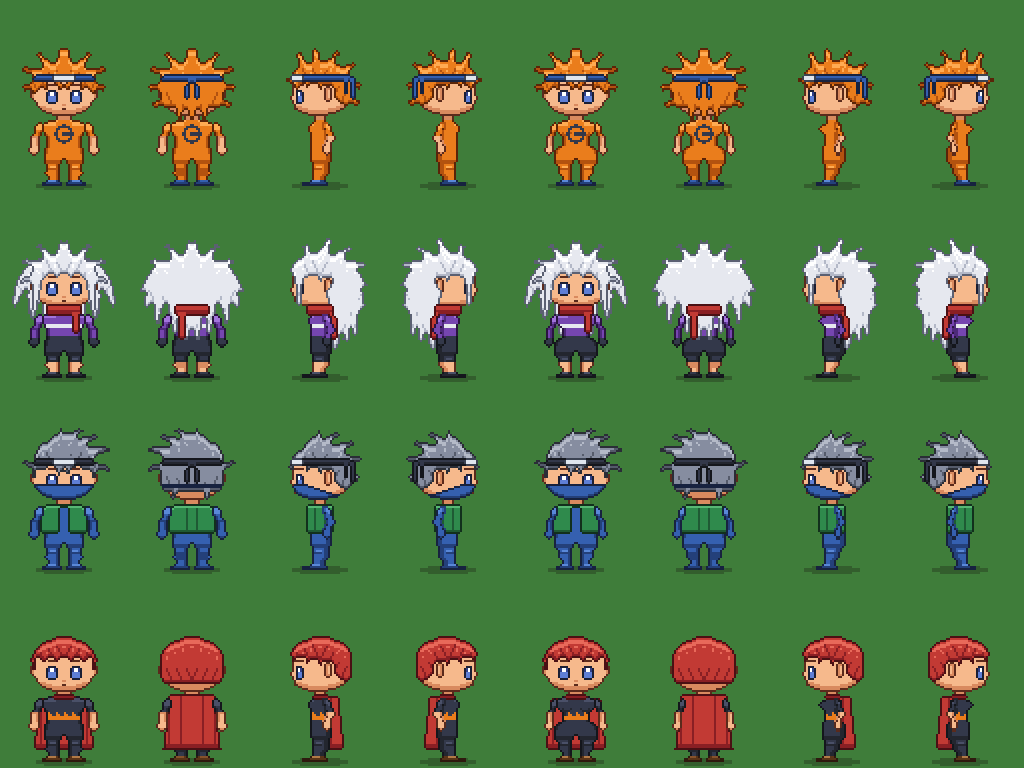
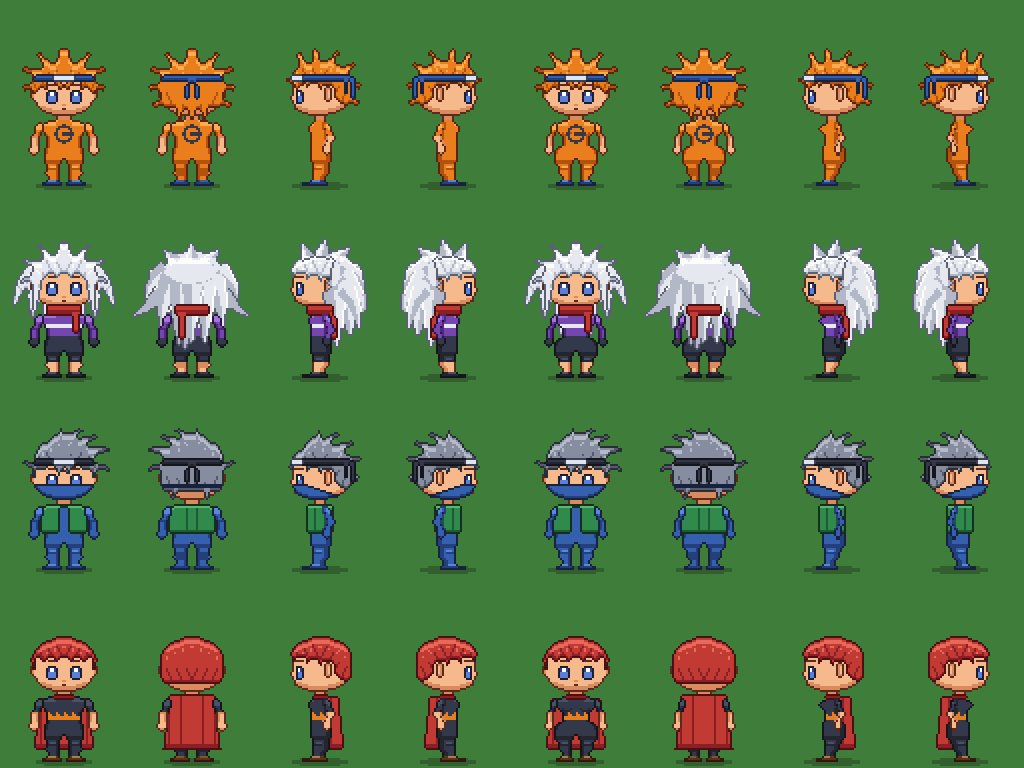
Arte: juba de lado e de costas desenhada na pxl e importada para o gerador
importar-pxl.mjs roda o build da pxl e grava a grade de tons no gerador; a peça usa o desenho pronto e o gerador o
recolore e o entorta nas animações.

Claude-Session: https://claude.ai/code/session_013vLqrS9CvqGe3bkjQv7HjM

diff --git a/arte/boneco-base.html b/arte/boneco-base.html
@@ -377,6 +377,20 @@
       return m;
     },
   };
+  // Desenhos feitos na pxl (arte/boneco-base/pxl/), importados por importar-pxl.mjs. Cada direção é uma grade 64 x 96
+  // de tons (0 vazio, 1 contorno, 2 sombra, 3 base, 4 luz), comprimida.
+  const PXL_ARTE = {};
+  // <pxl:juba>
+  PXL_ARTE.juba = {"costas":"1631.k62.kbk61.kbsk48.k10.k2bsk10.k36.ks3k6.2klb2s3k4.3kbk36.kb2s6k2blb2s3b4k2lbsk36.k2b4s4bl2b3s4b2l2b2sk36.k2b5s3bl2b3s3bl3b2sk38.k3l3b6l4b5l3bk35.k2.k4lb15l4bk34.ksk.k21l4bk.3k28.k3sk2bl20bs3bk2blk26.k4s32blk23.2k6s31blk22.kb6s27bs5blk21.k5sbs26b2s5blk21.k4sb3s28bs4blk20.k3s2b5s27bs3blk20.k2s3b6s19bs6bls3blk18.k2s3b9s15bs8bl2s2blk18.k2s3b12s7b3s11bl3s2blk16.k2s4b5sb5sb5s16bl4s2bk16.ks3bkl5sb5sb5s5bs5bl4bl4s2bk16.ks2bkl6sb5sb5s5bs5bl4blsk3sbk16.ks2bk6s2b5sb5s5bl5bls3bl2sk2sbk16.ksbk7s2b5sb5s4bsl5bls4bl2sksbk16.kbk7s3b5s2b4s4bsl5bls4bl2sk2sk16.kb8s3b5s2b4s4bls4bl3s3bl3sksk17.k8s3b5s2b4s4bls4bl3s3bl4sk17.k9s3b5s2b4s4bls4bl3s3bl4sk17.k9s3b5s2b4s4bls4bl3s3bl5sk15.k9s4bk3s3b4s3bsls4bl3s3bl5sk14.k6s2k2s3bkl3s4b3s3bl3s3bl4s2bl6sk12.k5s2k.k2s3bkl3s4b3s3bl3s3blk3s2b4k4sk10.k5sk3.k2s3blk3s4b3s3bl3s3blk3s2bk3.k4sk8.k3s3k4.k2s2b3k3s4b3s3bl3s2blk.k2s2bk4.2k3sk6.ks3k7.k2s2bk.k3s4b3s3bl3s2blk.k2sbk7.3ksk6.k11.ksbk2.k3s3b4s2bl4s2blk.k2sbk10.k19.ksbk3.k2s3bl3s2blk3s2blk2.ksbk30.ksbk3.k2s3bl3s2blk3s2blk2.ksbk30.ksbk3.k2s2b5s2b2k3s2bk3.ksbk30.ksbk3.k2s2bk4s2bk.k2s2bk3.ksbk30.ksk4.k2s2bk4s2bk.k2s2bk3.ksk32.k5.k2s2bk4sbk2.k2sbk5.k40.ks2bk4sbk2.k2sbk46.ks2bk4sbk2.k2sbk46.ks2bk4sbk2.k2sbk47.kb2k4sbk2.ksbk48.ks2k2sksbk3.kbk48.ks2k2sksk4.kbk48.ks2k2s2k6.k50.k.ksk61.ksk62.k1123.","lado":"1506.k62.kbk51.k8.2kbk50.kbk6.k2bsk50.kbsk5.klb2sk8.2k39.kb2sk3.kblb2sk4.4kbsk38.klb2sk.kblb3sk.3kb2lbsk39.klb3s2kblb3s2k2b2lb3sk39.klb4skl2b4sb2l2b3sk40.k3lb2k.5k2bk3lbl2bk40.kl3k8.2k.kl2b3lbk40.k15.k2b2lblbk54.k2bs4b2l3k51.k9b2lbk50.k3b2s5bl2sk48.k4b3s5b2lk48.k4b2s4bl3blk47.k4b2s4bls3bk47.k4bs6bls2bk47.k5bs5blbsbk47.k4b3s5blsbk46.ks3b2s7bl2sbk44.k2s3bs9bl2sk45.ks2bs10bl2sk46.k3s8bl2blsk45.k4s2bs5bl2blsk43.2k3s3b3s5bl2blk42.k5s2b4s5bl2blk42.k5s2b5s4bl2b2sk41.k5s3b5s3bl3bsk41.k5s4b5s3bl2bsk42.k5s4b5s2bl2bsk42.k5s4bl4s2blsbsk42.k5s4blb3s2blsbsk43.k4s4blb4s2blbsk43.k4s4blsb3s2bl2sk43.k4s3bl2sb3s2blsk45.k3s3bl2s2b2s2b2k46.k3s3bl2s2b3sbk47.k3s3bl2s3b2sbk47.k3s3bl2s3b2sbk47.k3s3bl3s2bksbk47.k3s3bl3s2bksbk48.k2s3blk2s2b2kbk48.k2s3blk2s2b2kbk48.k2s2b3k2sbk2.k50.ks2bk2.ksbk53.ks2bk2.ksbk53.ks2bk3.2k54.ks2bk59.ks2bk59.ksbk61.kbk61.kbk62.k1175."};
+  // </pxl:juba>
+  function arteDaPxl(peca, view) {
+    const s = PXL_ARTE[peca] && PXL_ARTE[peca][view];
+    if (!s) return null;
+    // Cada trecho é uma contagem (opcional) e uma letra: . vazio, k contorno, s sombra, b base, l luz.
+    const g = newMask(); let i = 0; const re = /(\d*)([.ksbl])/g; let mt;
+    while ((mt = re.exec(s))) { const t = '.ksbl'.indexOf(mt[2]); const n = mt[1] ? +mt[1] : 1; for (let k = 0; k < n; k++) g[i++] = t; }
+    return g;
+  }
   const SOMBRA_PADRAO = (c) => (c.dB <= 1 ? SHADE : c.dT >= 2 && c.dT <= 3 && c.y <= HY + 6 ? LIGHT : null);
   // Cabelo: sombra embaixo, faixa de luz no topo, mechas em sombra subindo da ponta e pontos de brilho entre elas.
   // Fios: anel de brilho no alto da cabeça, fios finos de sombra descendo e pontas escuras.
@@ -485,6 +499,9 @@
     desenho(view, k) {
       const m = cabeloBase(view, k); const tras = k.nova();
       const topo = [[33, HY + 1, -90, 7, 7], [39, HY + 2, -62, 8, 7, 10], [44, HY + 6, -32, 8, 7, 10], [46, HY + 12, -8, 7, 6, 15]];
+      // De lado e de costas a juba é o desenho feito na pxl (arte/boneco-base/pxl/juba.px.js) sobre a calota do gerador.
+      const arte = view === 'frente' ? null : arteDaPxl('juba', view);
+      if (arte) return { frente: m, pintado: arte };
       if (view === 'lado') {
         k.mechas(m, [[26, HY + 1, -105, 6, 6], [33, HY, -78, 8, 7, 10], [40, HY + 2, -50, 9, 7, 10], [45, HY + 6, -22, 9, 7, 15]]);
         // Leque de pontas saindo da nuca, da mais alta (quase na horizontal) à mais baixa (descendo pelas costas).
@@ -717,6 +734,8 @@
       if (d.frente) { paint(L[pc.camada], d.frente, SKIN, pc.sombra || SOMBRA_PADRAO); tag(L[pc.camada], () => pc.parte); }
       if (d.tras) { paint(L[back], d.tras, SKIN, pc.sombra || SOMBRA_PADRAO); tag(L[back], () => pc.parte); }
       if (d.metal) paint(L[pc.camada], d.metal, METAL, null);
+      // Desenho pronto (vindo da pxl): já tem contorno e tons; só ganha a parte, para trocar de cor.
+      if (d.pintado) { const g = L[pc.camada]; for (let i = 0; i < g.length; i++) if (d.pintado[i]) g[i] = d.pintado[i]; tag(g, () => pc.parte); }
     });
   }
   // Balanço: o cabelo abaixo da linha da orelha entorta, mais na ponta que na raiz. `amt` em pixels na ponta

diff --git a/arte/boneco-base/boneco-base.js b/arte/boneco-base/boneco-base.js
@@ -317,6 +317,20 @@
       return m;
     },
   };
+  // Desenhos feitos na pxl (arte/boneco-base/pxl/), importados por importar-pxl.mjs. Cada direção é uma grade 64 x 96
+  // de tons (0 vazio, 1 contorno, 2 sombra, 3 base, 4 luz), comprimida.
+  const PXL_ARTE = {};
+  // <pxl:juba>
+  PXL_ARTE.juba = {"costas":"1631.k62.kbk61.kbsk48.k10.k2bsk10.k36.ks3k6.2klb2s3k4.3kbk36.kb2s6k2blb2s3b4k2lbsk36.k2b4s4bl2b3s4b2l2b2sk36.k2b5s3bl2b3s3bl3b2sk38.k3l3b6l4b5l3bk35.k2.k4lb15l4bk34.ksk.k21l4bk.3k28.k3sk2bl20bs3bk2blk26.k4s32blk23.2k6s31blk22.kb6s27bs5blk21.k5sbs26b2s5blk21.k4sb3s28bs4blk20.k3s2b5s27bs3blk20.k2s3b6s19bs6bls3blk18.k2s3b9s15bs8bl2s2blk18.k2s3b12s7b3s11bl3s2blk16.k2s4b5sb5sb5s16bl4s2bk16.ks3bkl5sb5sb5s5bs5bl4bl4s2bk16.ks2bkl6sb5sb5s5bs5bl4blsk3sbk16.ks2bk6s2b5sb5s5bl5bls3bl2sk2sbk16.ksbk7s2b5sb5s4bsl5bls4bl2sksbk16.kbk7s3b5s2b4s4bsl5bls4bl2sk2sk16.kb8s3b5s2b4s4bls4bl3s3bl3sksk17.k8s3b5s2b4s4bls4bl3s3bl4sk17.k9s3b5s2b4s4bls4bl3s3bl4sk17.k9s3b5s2b4s4bls4bl3s3bl5sk15.k9s4bk3s3b4s3bsls4bl3s3bl5sk14.k6s2k2s3bkl3s4b3s3bl3s3bl4s2bl6sk12.k5s2k.k2s3bkl3s4b3s3bl3s3blk3s2b4k4sk10.k5sk3.k2s3blk3s4b3s3bl3s3blk3s2bk3.k4sk8.k3s3k4.k2s2b3k3s4b3s3bl3s2blk.k2s2bk4.2k3sk6.ks3k7.k2s2bk.k3s4b3s3bl3s2blk.k2sbk7.3ksk6.k11.ksbk2.k3s3b4s2bl4s2blk.k2sbk10.k19.ksbk3.k2s3bl3s2blk3s2blk2.ksbk30.ksbk3.k2s3bl3s2blk3s2blk2.ksbk30.ksbk3.k2s2b5s2b2k3s2bk3.ksbk30.ksbk3.k2s2bk4s2bk.k2s2bk3.ksbk30.ksk4.k2s2bk4s2bk.k2s2bk3.ksk32.k5.k2s2bk4sbk2.k2sbk5.k40.ks2bk4sbk2.k2sbk46.ks2bk4sbk2.k2sbk46.ks2bk4sbk2.k2sbk47.kb2k4sbk2.ksbk48.ks2k2sksbk3.kbk48.ks2k2sksk4.kbk48.ks2k2s2k6.k50.k.ksk61.ksk62.k1123.","lado":"1506.k62.kbk51.k8.2kbk50.kbk6.k2bsk50.kbsk5.klb2sk8.2k39.kb2sk3.kblb2sk4.4kbsk38.klb2sk.kblb3sk.3kb2lbsk39.klb3s2kblb3s2k2b2lb3sk39.klb4skl2b4sb2l2b3sk40.k3lb2k.5k2bk3lbl2bk40.kl3k8.2k.kl2b3lbk40.k15.k2b2lblbk54.k2bs4b2l3k51.k9b2lbk50.k3b2s5bl2sk48.k4b3s5b2lk48.k4b2s4bl3blk47.k4b2s4bls3bk47.k4bs6bls2bk47.k5bs5blbsbk47.k4b3s5blsbk46.ks3b2s7bl2sbk44.k2s3bs9bl2sk45.ks2bs10bl2sk46.k3s8bl2blsk45.k4s2bs5bl2blsk43.2k3s3b3s5bl2blk42.k5s2b4s5bl2blk42.k5s2b5s4bl2b2sk41.k5s3b5s3bl3bsk41.k5s4b5s3bl2bsk42.k5s4b5s2bl2bsk42.k5s4bl4s2blsbsk42.k5s4blb3s2blsbsk43.k4s4blb4s2blbsk43.k4s4blsb3s2bl2sk43.k4s3bl2sb3s2blsk45.k3s3bl2s2b2s2b2k46.k3s3bl2s2b3sbk47.k3s3bl2s3b2sbk47.k3s3bl2s3b2sbk47.k3s3bl3s2bksbk47.k3s3bl3s2bksbk48.k2s3blk2s2b2kbk48.k2s3blk2s2b2kbk48.k2s2b3k2sbk2.k50.ks2bk2.ksbk53.ks2bk2.ksbk53.ks2bk3.2k54.ks2bk59.ks2bk59.ksbk61.kbk61.kbk62.k1175."};
+  // </pxl:juba>
+  function arteDaPxl(peca, view) {
+    const s = PXL_ARTE[peca] && PXL_ARTE[peca][view];
+    if (!s) return null;
+    // Cada trecho é uma contagem (opcional) e uma letra: . vazio, k contorno, s sombra, b base, l luz.
+    const g = newMask(); let i = 0; const re = /(\d*)([.ksbl])/g; let mt;
+    while ((mt = re.exec(s))) { const t = '.ksbl'.indexOf(mt[2]); const n = mt[1] ? +mt[1] : 1; for (let k = 0; k < n; k++) g[i++] = t; }
+    return g;
+  }
   const SOMBRA_PADRAO = (c) => (c.dB <= 1 ? SHADE : c.dT >= 2 && c.dT <= 3 && c.y <= HY + 6 ? LIGHT : null);
   // Cabelo: sombra embaixo, faixa de luz no topo, mechas em sombra subindo da ponta e pontos de brilho entre elas.
   // Fios: anel de brilho no alto da cabeça, fios finos de sombra descendo e pontas escuras.
@@ -425,6 +439,9 @@
     desenho(view, k) {
       const m = cabeloBase(view, k); const tras = k.nova();
       const topo = [[33, HY + 1, -90, 7, 7], [39, HY + 2, -62, 8, 7, 10], [44, HY + 6, -32, 8, 7, 10], [46, HY + 12, -8, 7, 6, 15]];
+      // De lado e de costas a juba é o desenho feito na pxl (arte/boneco-base/pxl/juba.px.js) sobre a calota do gerador.
+      const arte = view === 'frente' ? null : arteDaPxl('juba', view);
+      if (arte) return { frente: m, pintado: arte };
       if (view === 'lado') {
         k.mechas(m, [[26, HY + 1, -105, 6, 6], [33, HY, -78, 8, 7, 10], [40, HY + 2, -50, 9, 7, 10], [45, HY + 6, -22, 9, 7, 15]]);
         // Leque de pontas saindo da nuca, da mais alta (quase na horizontal) à mais baixa (descendo pelas costas).
@@ -657,6 +674,8 @@
       if (d.frente) { paint(L[pc.camada], d.frente, SKIN, pc.sombra || SOMBRA_PADRAO); tag(L[pc.camada], () => pc.parte); }
       if (d.tras) { paint(L[back], d.tras, SKIN, pc.sombra || SOMBRA_PADRAO); tag(L[back], () => pc.parte); }
       if (d.metal) paint(L[pc.camada], d.metal, METAL, null);
+      // Desenho pronto (vindo da pxl): já tem contorno e tons; só ganha a parte, para trocar de cor.
+      if (d.pintado) { const g = L[pc.camada]; for (let i = 0; i < g.length; i++) if (d.pintado[i]) g[i] = d.pintado[i]; tag(g, () => pc.parte); }
     });
   }
   // Balanço: o cabelo abaixo da linha da orelha entorta, mais na ponta que na raiz. `amt` em pixels na ponta

diff --git a/arte/boneco-base/pxl/juba.px.js b/arte/boneco-base/pxl/juba.px.js
@@ -1,0 +1,62 @@
+// Juba (cabelo inspirado em mestre sábio de cabelo longo): desenhada na pxl, no quadro do boneco (64 x 96).
+// Cabeça de y 31 a 57; de lado o rosto olha para a esquerda. Exportada para o gerador por importar-pxl.mjs.
+// Tons: k contorno, s sombra, b base, l luz (o gerador troca as cores pela cor de cabelo escolhida).
+pal({ k: "#3b4252", s: "#9aa3b5", b: "#dfe5ee", l: "#ffffff" })
+ramps("ksbl")
+
+const HY = 31
+// Mecha: polígono afinando da base até a ponta, com curva. Devolve os pontos das duas bordas.
+function mecha(x, y, ang, len, larg, curva = 0) {
+  const esq = [], dir = [], n = 10
+  for (let i = 0; i <= n; i++) {
+    const t = i / n, a = ((ang + curva * t) * Math.PI) / 180
+    const cx = x + Math.cos(a) * len * t, cy = y + Math.sin(a) * len * t
+    const r = (larg / 2) * (1 - t) ** 0.9
+    esq.push([cx + Math.cos(a - Math.PI / 2) * r, cy + Math.sin(a - Math.PI / 2) * r])
+    dir.push([cx + Math.cos(a + Math.PI / 2) * r, cy + Math.sin(a + Math.PI / 2) * r])
+  }
+  return { esq, dir, base: [x, y] }
+}
+const flat = (pts) => pts.flatMap(([a, b]) => [Math.round(a), Math.round(b)])
+// Uma mecha pintada: corpo em base, metade da sombra (lado direito do sentido dela), um fio de luz na borda esquerda
+// e a sombra da raiz. Mechas de trás saem um tom mais escuras.
+function pinta(m, tras) {
+  const meio = m.esq.map((p, i) => [(p[0] + m.dir[i][0]) / 2, (p[1] + m.dir[i][1]) / 2])
+  const ops = [poly(flat([...m.esq, ...m.dir.slice().reverse()]), tras ? "s" : "b"),
+    poly(flat([...meio, ...m.dir.slice().reverse()]), "s")]
+  if (!tras) ops.push(line(...flat([m.esq[1], m.esq[6]]), "l"))
+  return ops
+}
+
+// ---- costas: leque de mechas saindo do meio da cabeça, das de trás (mais escuras) para as da frente.
+const COSTAS_TRAS = [[24, HY + 10, 120, 30, 13, 15], [40, HY + 10, 60, 30, 13, -15], [32, HY + 12, 92, 36, 14, 4]]
+const COSTAS_FRENTE = [
+  [19, HY + 8, 150, 18, 10, -25], [45, HY + 8, 30, 18, 10, 25],
+  [22, HY + 12, 118, 26, 12, -18], [42, HY + 12, 62, 26, 12, 18],
+  [27, HY + 14, 100, 32, 12, -8], [37, HY + 14, 80, 32, 12, 8],
+  [32, HY + 15, 90, 30, 10, 0],
+]
+const TOPO = [[32, HY + 3, -90, 8, 8], [24, HY + 4, -125, 8, 8, -10], [40, HY + 4, -55, 8, 8, 10],
+  [18, HY + 9, -165, 7, 7, -10], [46, HY + 9, -15, 7, 7, 10]]
+sprite("juba_costas", { w: 64, h: 96, outline: "k" },
+  ...COSTAS_TRAS.flatMap((q) => pinta(mecha(...q), true)),
+  ellipse(32, HY + 12, 15, 13, "b"),                     // massa sobre a cabeça
+  ...TOPO.flatMap((q) => pinta(mecha(...q))),
+  ...COSTAS_FRENTE.flatMap((q) => pinta(mecha(...q))),
+  light([20, HY + 2, 24, 3]),                            // anel de brilho no alto
+)
+
+// ---- lado: a juba sai da nuca e cai em leque para trás e para baixo; topo espetado; mecha da frente.
+const LADO_TRAS = [[42, HY + 12, 70, 30, 12, 12], [44, HY + 10, 30, 22, 10, 30]]
+const LADO_FRENTE = [
+  [42, HY + 6, 5, 16, 10, 35], [43, HY + 11, 35, 22, 12, 25], [41, HY + 15, 62, 28, 12, 15],
+  [39, HY + 18, 82, 30, 11, 6], [44, HY + 17, 50, 22, 9, 20],
+]
+const TOPO_LADO = [[26, HY + 2, -105, 7, 7, -5], [33, HY + 1, -80, 8, 8, 5], [40, HY + 3, -50, 9, 8, 12], [45, HY + 7, -20, 8, 7, 15]]
+sprite("juba_lado", { w: 64, h: 96, outline: "k" },
+  ...LADO_TRAS.flatMap((q) => pinta(mecha(...q), true)),
+  ellipse(43, HY + 11, 5, 10, "b"),                      // massa atrás da orelha (a calota vem do gerador)
+  ...TOPO_LADO.flatMap((q) => pinta(mecha(...q))),
+  ...LADO_FRENTE.flatMap((q) => pinta(mecha(...q))),
+  light([24, HY + 1, 20, 3]),
+)

diff --git a/arte/boneco-base/PADRAO.md b/arte/boneco-base/PADRAO.md
@@ -105,3 +105,19 @@ Peito e costas vão de y 61 a 71; o meio do tronco é o eixo entre x=31 e x=32. 
 Para olhar bordas com outro olho: exporte a peça como grade para um `.px.js` e rode
 `node ~/.claude/skills/pxl-pixel-art/bin/pxl.js check arquivo.px.js --edges`. Ele aponta quinas em L em linhas de 1 pixel,
 degraus fora de ordem e pontas soltas. São avisos para olhar, não erros.
+
+## Peças desenhadas na pxl (desenho à mão, por direção)
+
+Para peças que pedem desenho detalhado (a juba de lado e de costas é o primeiro exemplo):
+
+1. Desenhe na pxl em `arte/boneco-base/pxl/<peça>.px.js`, um sprite por direção com o nome `<peça>_<direção>`
+   (`frente`, `costas`, `lado`), no quadro do boneco: `w: 64, h: 96`, cabeça de y 31 a 57, rosto olhando para a esquerda.
+2. Use só 4 cores, na ordem contorno, sombra, base e luz: `pal({ k, s, b, l })`. O gerador troca pela cor escolhida.
+3. Registre a peça em `PECAS` no `importar-pxl.mjs` e crie o bloco `// <pxl:<peça>>` / `// </pxl:<peça>>` em
+   `boneco-base.js`.
+4. Rode `node arte/boneco-base/pxl/importar-pxl.mjs` (ele roda o build da pxl e grava a grade no gerador) e depois
+   `node arte/boneco-base/gerar.mjs`.
+5. Na peça, devolva `{ frente: mascara, pintado: arteDaPxl('<peça>', view) }`: `frente` é o que o gerador pinta (a calota,
+   por exemplo) e `pintado` é o desenho da pxl por cima.
+
+Nas animações o gerador move, entorta (balanço do cabelo) e corta o desenho; não é preciso desenhar quadro por quadro.
